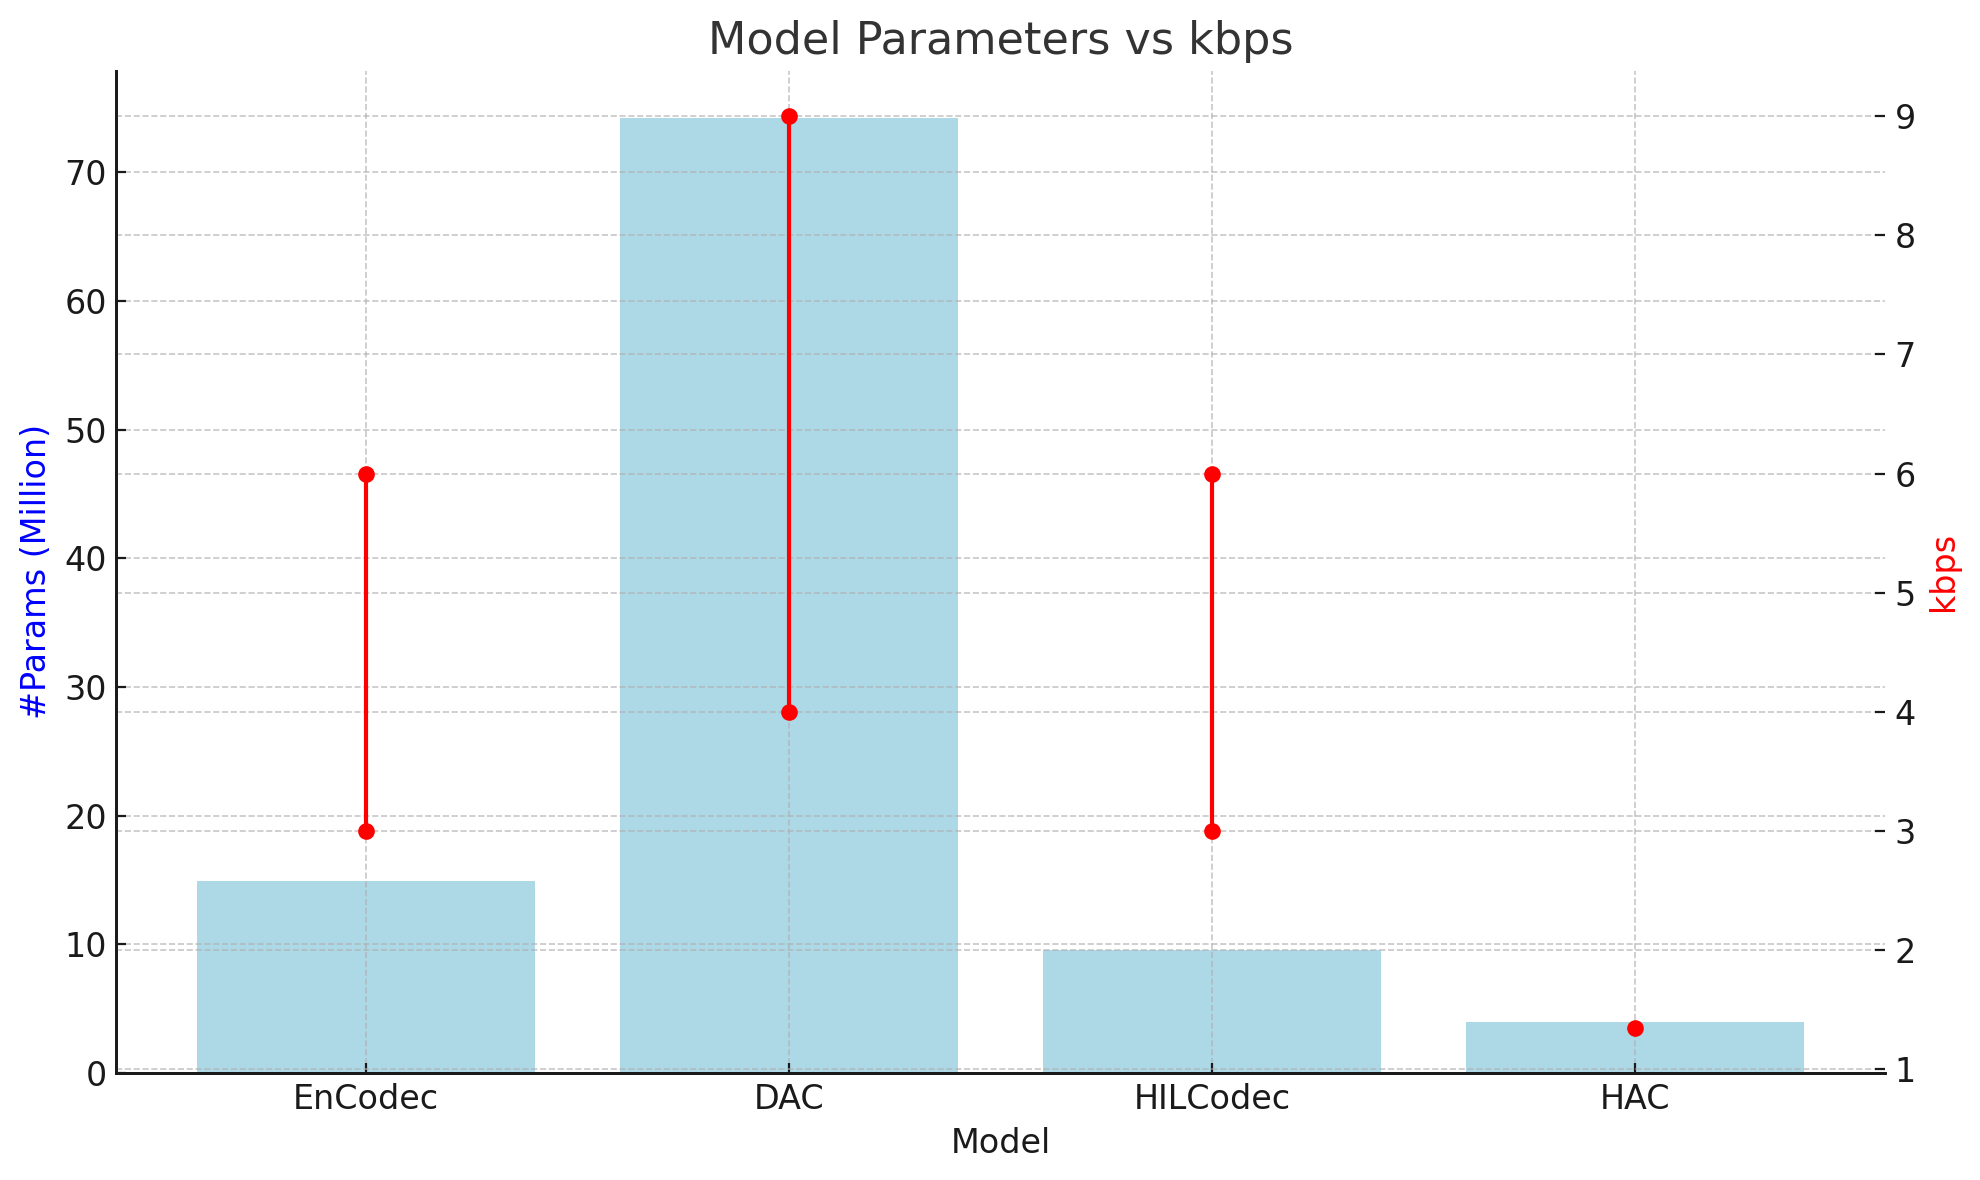
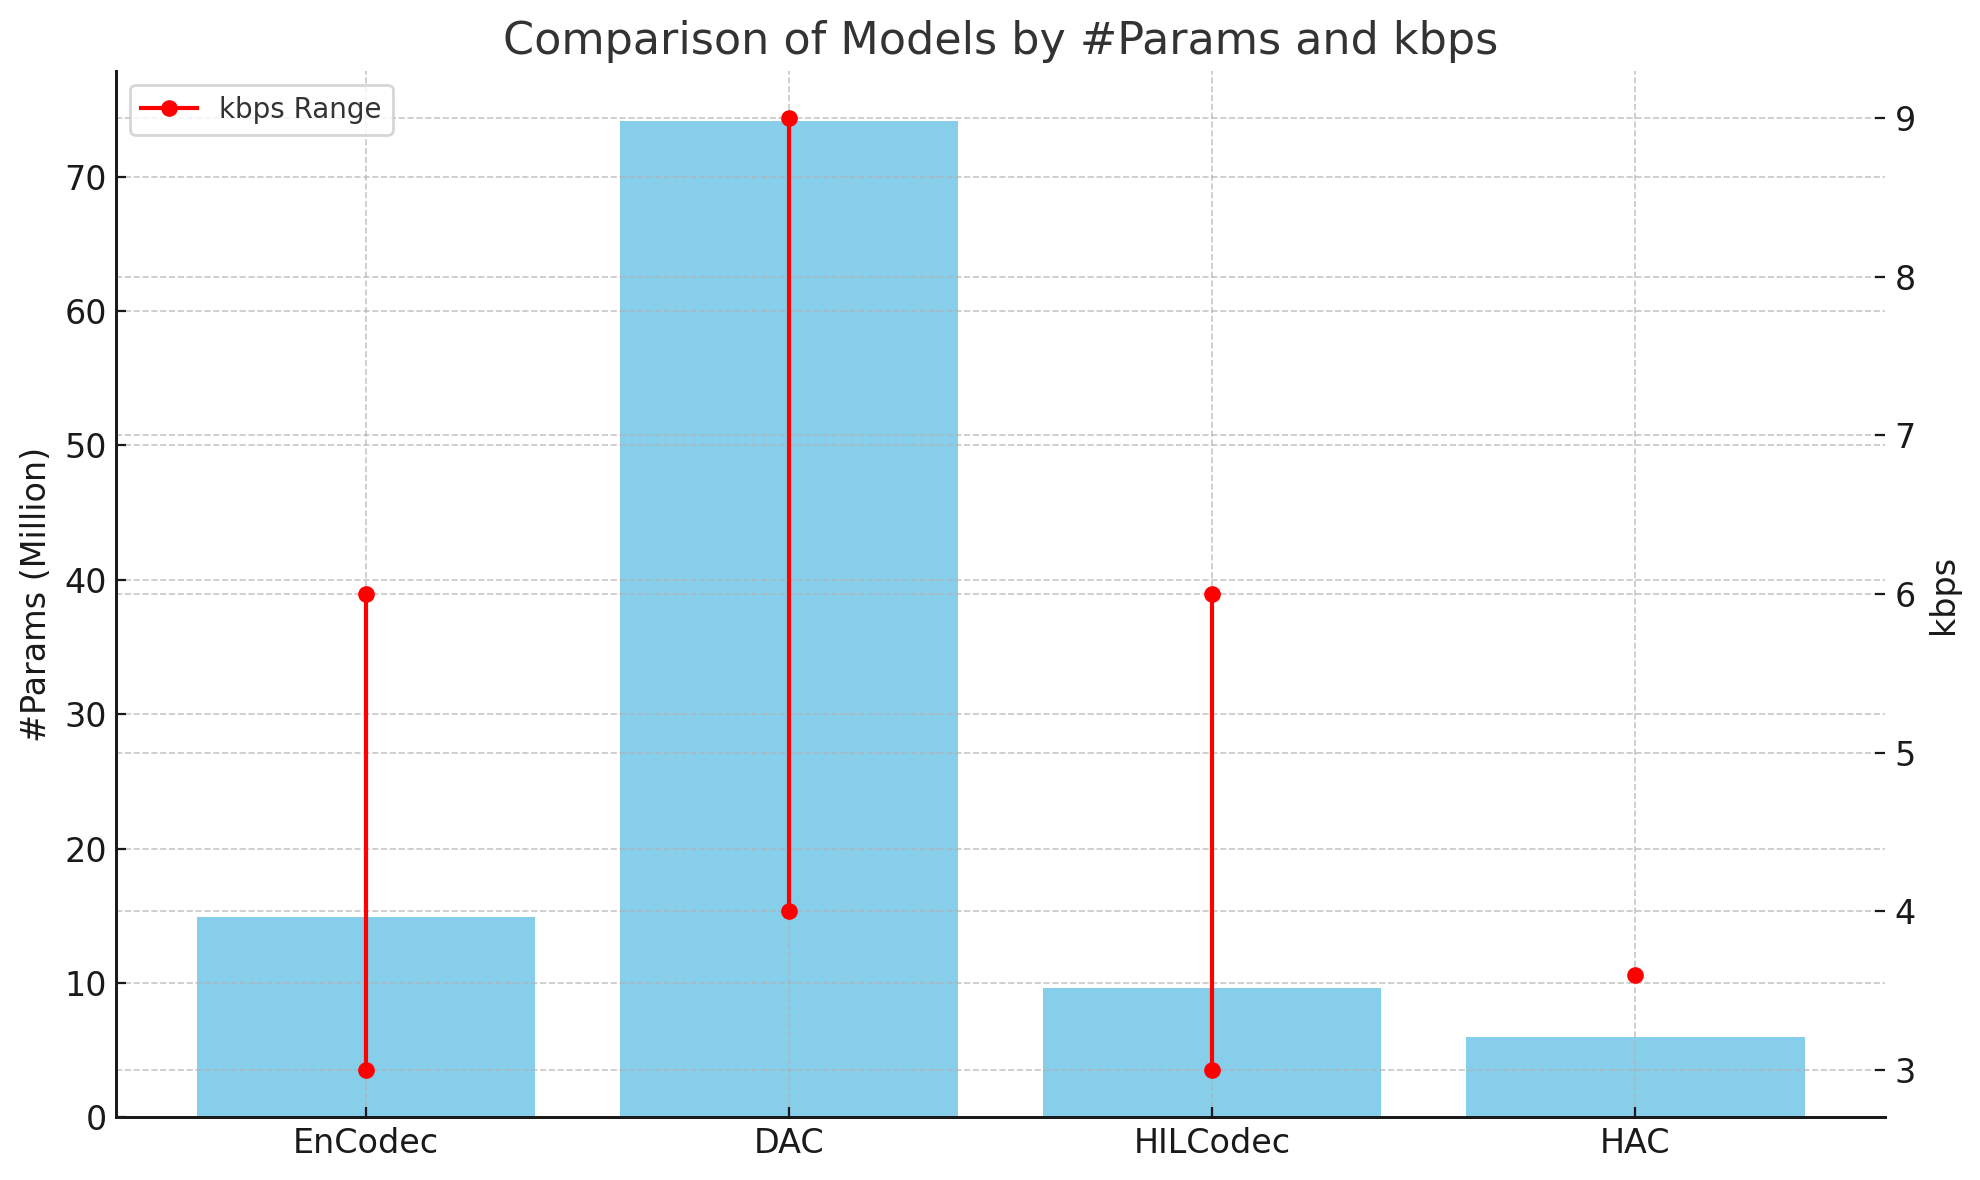
audio sampling uploading test

diff --git a/README.md b/README.md
@@ -11,16 +11,92 @@ A state-of-the-art audio codec model, developed by HANCE, consisting of encoder,
 
 # Model Specifications
 
-
-<details>
-<summary><span style="font-size: 1.17em; font-weight: bold;">ver.1.2 (20.11.2024)</span></summary>
-- model size: 4M parameters (8MB in bfloat16, 16MB in float32)
-- kbps (kilobits per sec): 1.35
-    - number of tokens/s: 75
+### ver.1.2 (20.11.2024)
+- model size: 6M parameters (12.2MB in bfloat16, 24.4MB in float32)
+- kbps (kilobits per sec): 3.6
+    - number of tokens/s: 200
 - codec model components
-  - encoder: separable downsampling CNN layers with Snake activation
-  - quantizer: binary scalar quantization (a variant of look-up free quantization from the MaskBit paper)
-  - decoder: separable upsampling CNN layers with Snake activation
+  - input: waveform
+    - before fed into the encoder, a waveform is transformed into a complex spectrogram with STFT.
+  - encoder: separable 1d causal convolutional layers with SMU (Smooth Maximum Unit) activation
+      - two types of 1d convolutional layers, one sweeping over a frequency dimension and another over a temporal dimension.
+  - quantizer: binary scalar quantization (a variant of Look-up Free Quantization from the MaskBit paper)
+  - decoder: reverse of the encoder architecture, followed by ISTFT.
+- loss
+  - reconstruction loss on
+    - waveforms
+    - multiple STFT spectrograms
+  - GAN loss with
+    - multiple STFT discriminator
+- misc
+  - input scaling
+  - feature map scaling with standard deviation instead of absolute magnitude
+  - both of the above scales are computed with EMA
+
+
+
+
+### Comparison to the Existing Models
+
+| Model | #Params (Million) | kbps |
+| ----- | ----- | ----- | 
+| EnCodec | 14.9 | 3, 6 |
+| DAC | 74.18 | 4, 9 |
+| HILCodec | 9.6 | 3, 6 |
+| HAC | 6 | 3.6 |
+
+
+<div style="text-align: left;">
+  <img src="https://github.com/danelee2601/hilcodec_inductive_bias.github.io/blob/main/fig/table_fig.png?raw=true" alt="method" style="width: 70%;">
+</div>
+
+
+
+# Results 
+NB! the training is still on-going. The results presented are from a trained model at a training step of 120k out of 500k.
+
+| Ground Truth (test sample) | Reconstructed Sample (v1.2) | Reconstructed Sample (v1.1) |
+| --- |----------------------------|----------------------|
+| <audio controls><source src="https://github.com/danelee2601/hilcodec_inductive_bias.github.io/raw/refs/heads/main/audio_samples/test/0.wav" type="audio/mpeg">Your browser does not support the audio element.</audio> | <audio controls><source src="https://github.com/danelee2601/hilcodec_inductive_bias.github.io/raw/refs/heads/main/audio_samples/rec/v2_0.wav" type="audio/mpeg">Your browser does not support the audio element.</audio> | <audio controls><source src="https://github.com/danelee2601/hilcodec_inductive_bias.github.io/raw/refs/heads/main/audio_samples/rec/v1.1-0.wav" type="audio/mpeg"></audio> |
+| <audio controls><source src="https://github.com/danelee2601/hilcodec_inductive_bias.github.io/raw/refs/heads/main/audio_samples/test/1.wav" type="audio/mpeg">Your browser does not support the audio element.</audio> | <audio controls><source src="https://github.com/danelee2601/hilcodec_inductive_bias.github.io/raw/refs/heads/main/audio_samples/rec/v2_1.wav" type="audio/mpeg">Your browser does not support the audio element.</audio> | <audio controls><source src="https://github.com/danelee2601/hilcodec_inductive_bias.github.io/raw/refs/heads/main/audio_samples/rec/v1.1-1.wav" type="audio/mpeg"></audio> |
+| <audio controls><source src="https://github.com/danelee2601/hilcodec_inductive_bias.github.io/raw/refs/heads/main/audio_samples/test/2.wav" type="audio/mpeg">Your browser does not support the audio element.</audio> | <audio controls><source src="https://github.com/danelee2601/hilcodec_inductive_bias.github.io/raw/refs/heads/main/audio_samples/rec/v2_2.wav" type="audio/mpeg">Your browser does not support the audio element.</audio> | <audio controls><source src="https://github.com/danelee2601/hilcodec_inductive_bias.github.io/raw/refs/heads/main/audio_samples/rec/v1.1-2.wav" type="audio/mpeg"></audio> |
+
+
+# Metrics
+
+We present PESQ (Perceptual Evaluation of Speech Quality) and SI-SDR (Scale-Invariant Signal-to-Distortion Ratio).
+PESQ and SI-SDR scores are typically considered to be quite good when above 2.0, and 5.0, respectively.
+
+
+### Training History
+
+
+
+
+
+
+# Analysis
+ 
+ in my ppt.
+
+
+
+
+***
+
+# Model Specification Histories
+
+### ver.1.2 (20.11.2024)
+- model size: 6M parameters (12.2MB in bfloat16, 24.4MB in float32)
+- kbps (kilobits per sec): 3.6
+    - number of tokens/s: 200
+- codec model components
+  - input: waveform
+    - before fed into the encoder, a waveform is transformed into a complex spectrogram with STFT.
+  - encoder: separable 1d causal convolutional layers with SMU (Smooth Maximum Unit) activation
+      - two types of 1d convolutional layers, one sweeping over a frequency dimension and another over a temporal dimension.
+  - quantizer: binary scalar quantization (a variant of Look-up Free Quantization from the MaskBit paper)
+  - decoder: reverse of the encoder architecture, followed by ISTFT.
 - loss
   - reconstruction loss on
     - waveforms
@@ -31,18 +107,17 @@ A state-of-the-art audio codec model, developed by HANCE, consisting of encoder,
   - input scaling (z-norm)
   - feature map scaling with standard deviation instead of absolute magnitude
   - scales are computed with EMA
-</details>
 
 
-<details>
-<summary><span style="font-size: 1.17em; font-weight: bold;">ver.1.1 (21.10.2024)</span></summary>
+### ver.1.1 (21.10.2024)
 - model size: 4M parameters (8MB in bfloat16, 16MB in float32)
 - kbps (kilobits per sec): 1.35
     - number of tokens/s: 75
 - codec model components
-  - encoder: separable downsampling CNN layers with Snake activation
-  - quantizer: binary scalar quantization (a variant of look-up free quantization from the MaskBit paper)
-  - decoder: separable upsampling CNN layers with Snake activation
+  - input: waveform
+  - encoder: separable 1d causal convolutional layers with Snake activation
+  - quantizer: binary scalar quantization (a variant of Look-up Free Quantization from the MaskBit paper)
+  - decoder: reverse of the encoder architecture
 - loss
   - reconstruction loss on
     - waveforms
@@ -51,44 +126,3 @@ A state-of-the-art audio codec model, developed by HANCE, consisting of encoder,
     - multiple STFT discriminator
     - multiple filter band discriminator
   - perceptual loss with Whisper
-</details>
-
-
-### Comparison to the Existing Models
-
-| Model | #Params (Million) | kbps |
-| ----- | ----- | ----- | 
-| EnCodec | 14.9 | 3, 6 |
-| DAC | 74.18 | 4, 9 |
-| HILCodec | 9.6 | 3, 6 |
-| HAC | 4 | 1.35 |
-
-
-<div style="text-align: left;">
-  <img src="https://github.com/danelee2601/hilcodec_inductive_bias.github.io/blob/main/fig/table_fig.png?raw=true" alt="method" style="width: 70%;">
-</div>
-
-
-Remarks
-- the lightest model of all known models with the highest compression rate.
-- to have a more fine-grained control over the timesteps, we're planning to relax "num_tokens/s" to 150 (6.7 millisecond per token)
-<!-- - Once relaxed, it should be possible to have the model size below 8MB due to the relaxed compression rate to enable real-time processing on CPU. -->
-
-
-# Results
-
-| Ground Truth (test sample) | Reconstructed Sample (v2; 103k training step) | Reconstructed Sample (v1) |
-| --- |----------------------------|----------------------|
-| <audio controls><source src="https://github.com/danelee2601/hilcodec_inductive_bias.github.io/raw/refs/heads/main/audio_samples/test/0.wav" type="audio/mpeg">Your browser does not support the audio element.</audio> | <audio controls><source src="https://github.com/danelee2601/hilcodec_inductive_bias.github.io/raw/refs/heads/main/audio_samples/rec/v2_0.wav" type="audio/mpeg">Your browser does not support the audio element.</audio> | <audio controls><source src="https://github.com/danelee2601/hilcodec_inductive_bias.github.io/raw/refs/heads/main/audio_samples/rec/0.wav" type="audio/mpeg">Your browser does not support the audio element.</audio> |
-| <audio controls><source src="https://github.com/danelee2601/hilcodec_inductive_bias.github.io/raw/refs/heads/main/audio_samples/test/1.wav" type="audio/mpeg">Your browser does not support the audio element.</audio> | <audio controls><source src="https://github.com/danelee2601/hilcodec_inductive_bias.github.io/raw/refs/heads/main/audio_samples/rec/v2_1.wav" type="audio/mpeg">Your browser does not support the audio element.</audio> | <audio controls><source src="https://github.com/danelee2601/hilcodec_inductive_bias.github.io/raw/refs/heads/main/audio_samples/rec/1.wav" type="audio/mpeg">Your browser does not support the audio element.</audio> |
-| <audio controls><source src="https://github.com/danelee2601/hilcodec_inductive_bias.github.io/raw/refs/heads/main/audio_samples/test/2.wav" type="audio/mpeg">Your browser does not support the audio element.</audio> | <audio controls><source src="https://github.com/danelee2601/hilcodec_inductive_bias.github.io/raw/refs/heads/main/audio_samples/rec/v2_2.wav" type="audio/mpeg">Your browser does not support the audio element.</audio> | <audio controls><source src="https://github.com/danelee2601/hilcodec_inductive_bias.github.io/raw/refs/heads/main/audio_samples/rec/2.wav" type="audio/mpeg">Your browser does not support the audio element.</audio> |
-
-
-# Objective Evaluations
-PESQ
-
-
-# Analysis
- 
- in my ppt.
-
